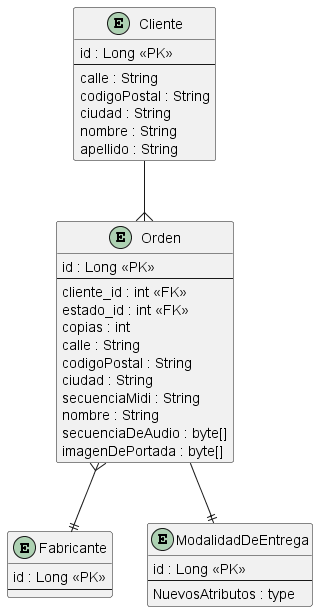
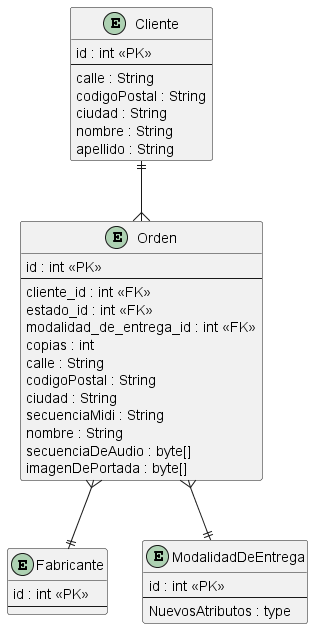
Actualiza diagramas y detalles de codigo

Changed region(s): [[0.0288, 0.0, 0.8626, 0.9935], [0.4313, 0.8072, 0.9776, 0.9935], [0.6613, 0.4967, 0.6901, 0.5278]]

diff --git a/Segundos-parciales/notesbox/Mapeo.java b/Segundos-parciales/notesbox/Mapeo.java
@@ -11,6 +11,7 @@ class Cliente extends PersistentEntity {
   Direccion direccion;
   String nombre;
   String apellido;
+  @OneToMany
   List<Orden> ordenes;
 }
 
@@ -22,7 +23,10 @@ class Direccion extends PersistentEntity {
 }
 
 class Fabricante extends PersistentEntity {
-
+  Bool aceptaTrabajo;
+  int copiasMinimas;
+  int diasDeDemora;
+  int capacidadDisponible;
 }
 
 @Service
@@ -35,6 +39,8 @@ abstract class Orden extends PersistentEntity {
   int copias;
   @Embedded
   Direccion direccion;
+  @ManyToOne
+  ModalidadDeEntrega modalidadDeEntrega;
 }
 
 class Personalidada extends Orden {
@@ -42,7 +48,7 @@ class Personalidada extends Orden {
   @Lob
   byte[] secuenciaDeAudio;
 
-  public void convertir(){
+  public void convertir() {
     // Usa un singleton
   }
 }
@@ -53,11 +59,11 @@ abstract class ModalidadDeEntrega extends PersistentEntity {
 }
 
 class CorreoArgentino extends ModalidadDeEntrega {
-  
+
 }
 
 class ACargoDeFabricante extends ModalidadDeEntrega {
-  
+
 }
 
 class DeCatalogo extends Orden {
